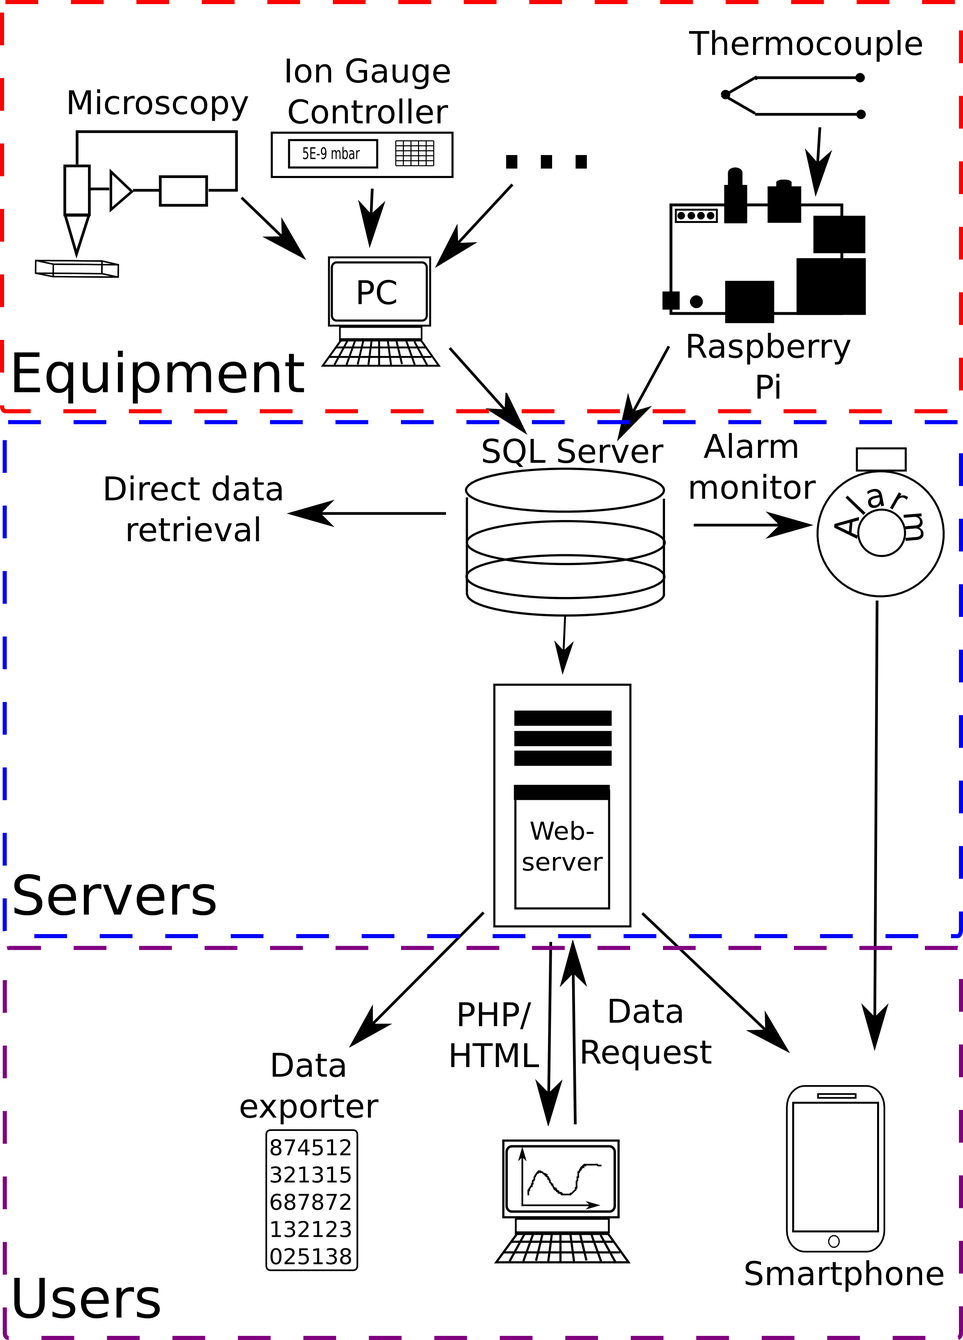
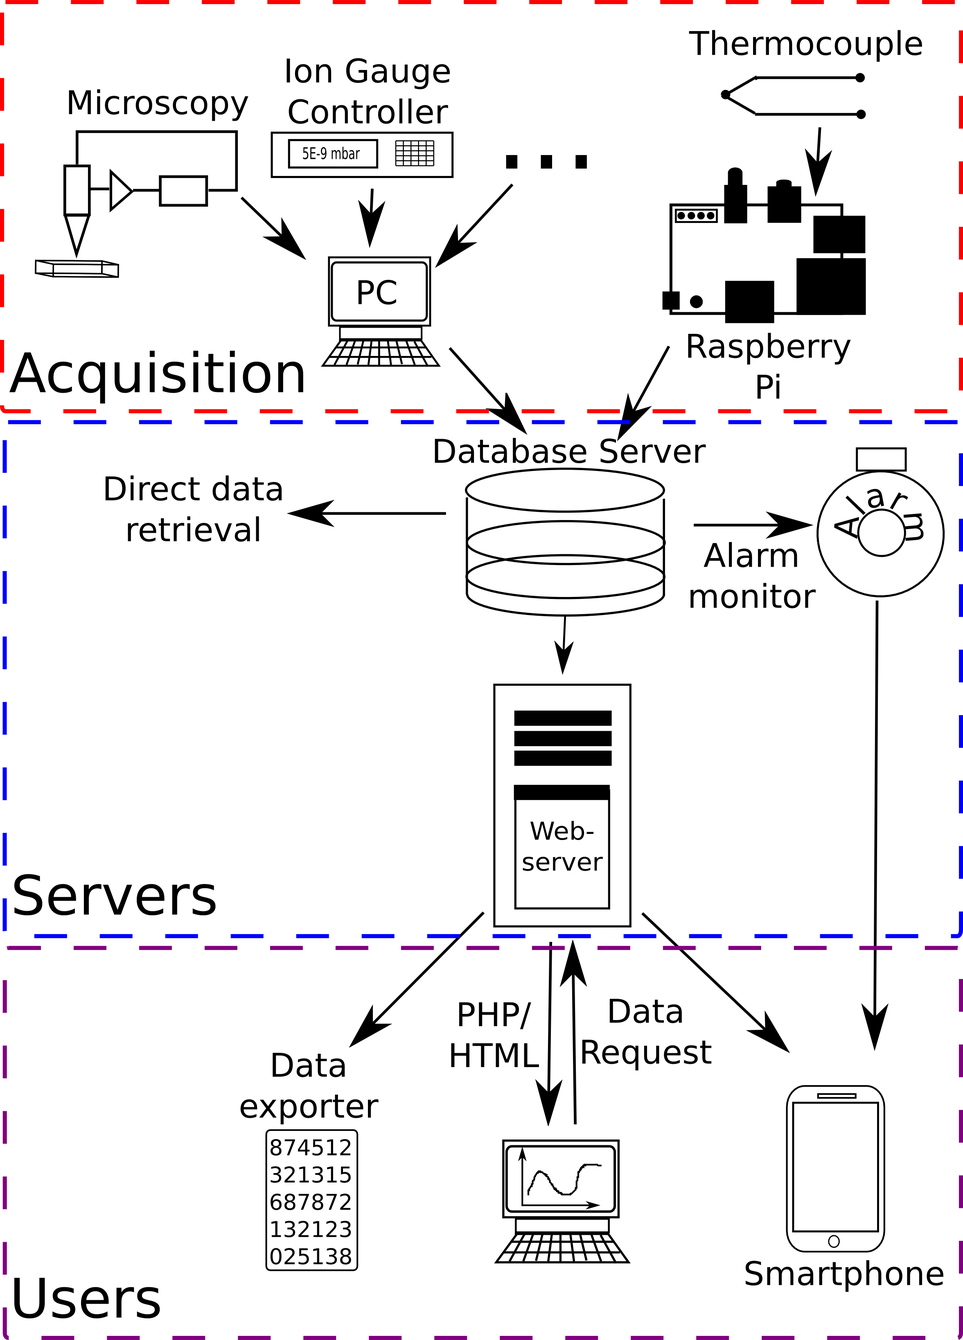
Small corrections to the manuscript before sending to Robert and Kenneth

Changed region(s): [[0.0, 0.2492, 0.3102, 0.3115], [0.4654, 0.3115, 0.8377, 0.3737], [0.7136, 0.4049, 0.8377, 0.4672]]

diff --git a/cases.tex b/cases.tex
@@ -1,16 +1,16 @@
 The existence of this data system is paramount to several automation and system
-health monitoring tasks in our lab. Below a few examples are described of the
-use of the data system for these purposes. The examples given are how to create
-a system health development graph from the continuously logged pressure data,
-how we use the continuously logged data to monitor the health and status of
-long duration experiments from home and finally how it can be used to create
+health monitoring tasks in our laboratory. Below a few examples are described
+of the use of the data system for these purposes. The examples given are how to
+create a system health development graph from the continuously logged pressure
+data, how we use the continuously logged data to monitor the health and status
+of long duration experiments from home and finally how it can be used to create
 alarms if some of the system parameters fall outside specified security ranges.
 
 \subsection{Monitoring system health}
 \label{sec:morning_pressure}
 As mentioned in section \ref{sec:data_extraction} the flexibility of SQL
-provides the possibility to do advanced data selection and very efficient
-elementary data treatment directly in the database by means of the SQL query.
+provides the possibility to perform advanced data selection and very efficient
+elementary data treatment directly in the database by means of a query.
 The can be used as in the example below, where the pressure in a vacuum
 chamber at 1\,A.M. in the morning (where all the system parameters have settled
 down) for the last month is extracted for plotting; 
@@ -25,14 +25,12 @@ where \{from\} and \{to\} should be replaced with the relevant date interval.
 The output from a statement such as the one above is illustrated in
 Figure~\ref{fig:morning_pressure}.
 \begin{figure}
- \begin{center}
- \includegraphics[width=10cm]{morning_pressure.png}
- \caption{ The morning pressure in a vacuum chamber at the department. The
-   pressure gauge is unable to read high pressures, and thus no data is
-   available from periods where the chamber is vented for maintenance.
-   \label{fig:morning_pressure}
- } 
- \end{center} 
+ \begin{center} 
+  \includegraphics[width=12cm]{morning_pressure.png} 
+
+\caption{The morning pressure in a vacuum chamber at the department as measured
+ by a Bayard-Alpert ion gauge.\label{fig:morning_pressure}} 
+\end{center}
 \end{figure} 
 Plots like these can be a useful tool to monitor the general health of the
 chamber, i.e. if leaks have developed, a valve is failing, a roughing pump is
@@ -43,47 +41,45 @@ the automated logging and selective plotting, as it would have required a
 person to log the data in the middle of the night and to manually periodically
 make new plots of the latest time period.
 
-\subsection{Status of experiments with long durations} 
-Within surface science it is not unusual to have experiments or a preparation
+\subsection{Status of experiments over long time spans} 
+Within surface science it is not unusual to have experiments or preparation
 procedures before an experiment running for extended periods of time i.e.
-overnight, or over several days. Obviously, for such procedures running when
-no-one is present to monitor it, the programs that execute the procedure are
-themselves responsible for the safety of the system/equipment and for shutting
-it down if something unintentional happens. But with continuous logging, it is
-now a simple task to add surveillance to these procedures that alerts the user
-if the procedure has been stopped. When this happens, it is then possible for
-the operator to access if it is safe to start the experiment again, even from
-home. This can help to prevent a loss of experimentation time if the experiment
-stopped e.g.\ during unsupervised experimentation time intervals like a
-weekend.
+overnight or over several days. Obviously, for such procedures the equipment is
+unmanned and no-one is present to monitor it. The software that execute the
+procedure are themselves responsible for the safety of the system/equipment and
+for shutting it down if something unintentional happens. With continuous
+logging it is now a simple task to add surveillance to these procedures that
+alerts the user if the procedure has been stopped. If this occurs, it is
+subsequently possible for the operator to assess if it is safe to start the
+experiment again, even from home. This can help prevent a loss of
+experimentation time if the experiment has been stopped e.g.\ during weekends
+or vacation time.
 
-One example where this is used is for the cleaning of metal single crystal
+An example where this is used is for the cleaning of metal single crystal
 samples before experimentation. The cleaning of the surface is achieved by
 running a number (5-20) of cleaning cycles. Each of these cycles can take up to
 several hours. Before this task was automatized, it typically required simple
 manual intervention 2-4 times during a 30 to 120 minute cycle. Obviously, this
-was a suboptimal solution, since a lot of time was spent, with only small time
-intervals to work on other things, before the next manual intervention. After
+was a suboptimal solution requiring periodical manual work. After
 the total automation of the task and the implementation of the surveillance
 features mentioned above this procedure can now run e.g.\ for 10-16 hours over
 night and produce a sample ready for experimentation at the beginning of the
 workday.
 
-Another use of the monitoring of extended procedures are in the
-experiments on microreactor setups~\cite{Henriksen2009}. For these devices,
-it is very common to have quite long experimentation times. They can be used to
-allow for sufficient system settle time when parameters have been changed, to
-study long time stability effects on the samples or to thoroughly search the
-parameter space for the experiment. Obviously, for all these purposes the more
+Another use of the monitoring of extended procedures are in the experiments on
+microreactor setups~\cite{Henriksen2009}. For these devices it is very common
+to have quite long unmanned experimentation times. They can be used to allow
+for sufficient system settle time when parameters have been changed, to study
+long time stability effects on the samples or to thoroughly search the
+parameter space for the experiment. For all of these purposes the more
 experimentation time the better and being able to un-problematically and safely
 utilize nights and weekends is a noticeable improvement.
 
 \subsection{Cooling water alarms}\label{sec:cooling_water_alarms}
-
 Several important pieces of equipment in our lab require cooling. If the
-cooling disappears it can result in the break down of this equipment, which can
-be quite expensive both in repair costs and lost equipment up-time. Using the
-continuously logged data critical system parameters can be monitored and used
+cooling disappears it can result in break down of this equipment which can
+be quite expensive in repair costs and lost experiment time. Using the
+continuously logged data, critical system parameters can be monitored and used
 to trigger alarms when these fall out of specified ranges. To use this feature
 to implement surveillance of the cooling temperature measurements on all the
 equipment with critical cooling requirements have been mounted and all of these

diff --git a/system_description.tex b/system_description.tex
@@ -1,10 +1,10 @@
 The system consists of three logically separate components as illustrated in
-Figure~\ref{fig:system_overview}; 1) the equipment component where all
-communication with equipment and acquisition of data is performed 2) the
-servers which consist of the MySQL server that stores the acquired data from
-experiments and the Apache webserver which interacts and presents the user with
-data retrieved from the database and 3) the user component which consists of
-the clients wishing to access the data. 
+Figure~\ref{fig:system_overview}; 1) the acquisition component where all
+communication with equipment and acquisition of data is performed 2) the server
+component which consists of a database server that stores the acquired data from
+experiments and the Apache webserver which interacts and presents the retrieved
+data from the database to the user with data retrieved and 3) the user side
+which consists of the clients wishing to access the data.
 
 \begin{figure}
  \begin{center}
@@ -16,40 +16,44 @@ the clients wishing to access the data.
  \end{center}
 \end{figure}
 
-The system is highly flexible meaning the servers can accept data from a range
-of different sources. In the current setup equipment interfaced with RS232,
-GPIB, USB and analog/digital data acquisition cards standards are logged to the
-MySQL database. The user can furthermore use programs written in a wide variety
-of languages. As a testimony to this, software written in both LabView and
-Python\cite{python} are used to save data to the database. How the integration
-with the server and subsequent storage of data in the database is performed is
-hence a user determined design decision. This has a number of advantages.  The
-user(s) can integrate existing software with the databases quickly and without
-the need to rewrite any previous interface software written for experimental
-setups. Furthermore, due to the flexibility of the system, if storage in the
-database during acquisition is not possible due to software limitations the
-data can still be saved in the database by subsequent post experiment parsing
-of data files. This, however, still requires that the file format, which holds
-the data, is specified or the data can be exported to a flat text format from
-the acquisition software.
+The system is highly flexible and modular meaning and the servers can accept
+data from a range of different sources and the individual components, cf.
+Figure~\ref{fig:system_overview}, can be used independently. In the current
+setup equipment interfaced with RS232, GPIB, USB and analog/digital data
+acquisition cards standards are logged to the database via the acquisition
+component. The user can furthermore use programs written in a wide variety of
+languages and is only limited by the chosen language's ability to interface to
+relational databases. As a testimony to this, software written in both LabView
+and Python\cite{python} are used to save data to the database. How the
+integration with the server and subsequent storage of data in the database is
+performed is hence a user determined design decision. This has a number of
+advantages. The user(s) can integrate existing software with the databases
+quickly and without the need to rewrite any previous interface software written
+for experimental setups. Furthermore, due to the flexibility of the system, if
+storage in the database during acquisition is not possible due to software
+limitations the data can still be saved in the database by subsequent post
+experiment parsing of data files. This, however, still requires that the file
+format, which holds the data, is specified or the data can be exported to a
+flat text format from the acquisition software.
 
-The servers consist of a MySQL server and a web server. All experimental data
-acquired by the user is stored in the MySQL database and is presented to the
-user from the web server. If needed, experimental data from the MySQL server
-can be retrieved directly for later analysis. The web server runs a LAMP
-(Linux, Apache, MySQL, PHP/Python) package. Python, PHP and HTML/CSS and is
-used to extract data from the database and present them to the end user in a
-simple interactive web interface for data visualization and simple treatment
-algorithms. Python was primarily chosen due to its tight integration with
-scientific packages, such as SciPy and NumPy, which makes data analysis and
-treatment more convenient\cite{Cahn2007}. PHP and HTML/CSS is used to display
-data in standardized formats suitable for web browsers and process input from
-the user. The combination of PHP and HTML/CSS to process user input from web
-pages is very flexible and has proven successful in other parts of the
-scientific community\cite{Crane2008}. To accommodate a range of users and
-provide the largest flexibility the web server displays both a standard HTML/CSS
-site for desktop PCs and a mobile version suitable for tablet/smartphone users.
-
+The servers consist of a database server and a web server. In our specific
+implementation a MySQL database has been chosen. All experimental data acquired
+by the user is stored in the MySQL database and is presented to the user from
+the web server. If needed, experimental data from the MySQL server can be
+retrieved directly from the database by user written software for later
+analysis. The web server runs a LAMP (Linux, Apache, MySQL, PHP/Python)
+package. Python, PHP and HTML/CSS is used to extract data from the database
+and present them to the end user in a simple interactive web interface for data
+visualization and simple treatment algorithms. Python was primarily chosen due
+to its tight integration with scientific packages, such as SciPy and NumPy,
+which makes data analysis and treatment more convenient\cite{Cahn2007}. PHP and
+HTML/CSS is used to display data in standardized formats suitable for web
+browsers and process input from the user. The combination of PHP and HTML/CSS
+to process user input from web pages is very flexible and has proven successful
+in other parts of the scientific community\cite{Crane2008}. To accommodate a
+range of users and provide the largest flexibility the web server displays both
+a standard HTML/CSS site for desktop PCs and a mobile version suitable for
+tablet/smartphone users.
 
 The web interface, which takes user input and displays data to the user, is also
 capable of routine data treatment. This can either be zoom of data, plotting on

diff --git a/data_storage.tex b/data_storage.tex
@@ -1,17 +1,17 @@
 For storage of acquired data a centralized server has been implemented as
 opposed to other non-centralized systems\cite{McIntosh2003}. Storing all
-acquired experimental data in a database on a centralized server running open
-source software has a number of attractive features. Firstly, by storing the
-data on a centralized server, backup of all experimental data is enormously
-simplified compared to backup of individual computers. Backup of experimental
-data is, hence, from a user's point of view automatic as this can be performed
-by routine jobs on the server. Secondly, the data is stored in a standardized
-and open format which allows for easy export of the data to any platform, open
-formats or software source. This makes data exchange across different platforms
-immensely more simple. Thirdly, by open sourcing all of the code used to
-visualize and treat data from the database, collaboration between several
-different groups is possible thus increasing the number of developers to
-optimize the code and further increase functionality.
+acquired experimental data in a database on a centralized server has a number
+of attractive features. Firstly, by storing the data on a centralized server,
+backup of all experimental data is enormously simplified compared to backup of
+individual computers. Backup of experimental data is, hence, from a user's
+point of view automatic as this can be performed by routine jobs on the server.
+Secondly, the data is stored in a standardized and open format which allows for
+easy export of the data to any platform, open formats or software source. This
+makes data exchange across different platforms immensely more simple. Thirdly,
+by open sourcing all of the code used to visualize and treat data from the
+database, collaboration between several different groups is possible thus
+increasing the number of developers to optimize the code and further increase
+functionality.
 
 A centralized storage of data can be accomplished in many ways. However, in
 experimental laboratories where large amounts of data are recorded a database
@@ -29,10 +29,11 @@ as possible, which helps to ensure that this central component can easily be
 managed by the professional IT-staff at the department. It is important to
 realize that while the clients can easily have the ''age diversity'' of
 accumulated scientific equipment, be exposed to harsh conditions in the lab and
-be managed by the scientific staff the server needs to be managed and handled
-with all the care associated with a production environment server.
+be managed by the scientific staff in the lab, the server needs to be managed
+and handled with all the care associated with a production environment server.
 
-To protect against pollution of the various setups tables in the database each
+To protect against pollution of the various setups tables in the database our
+system has implemented access rights to all the tables in the database. Each
 client has its own username and password which is not part of the code
 (typically it will be managed in the local ODBC-settings of the client). In
 this way, interface code can flow back and forth between different setups
@@ -40,7 +41,7 @@ without the risk of one setup accidentally logging data to other setup's
 tables.
 
 For each of the setups that is connected to this system, the following table
-structure is implemented. Each of the measurements that are continuously logged
+structure is implemented: Each of the measurements that are continuously logged
 has their own table, where the values are logged as a function of date and
 time. All the specific measurements, such as spectra, scans and values
 monitored over a well-defined time span are stored in two tables in the
@@ -55,7 +56,6 @@ hand, makes it possible and simple to store all the different kinds of xy-data
 in just two tables.
 
 \subsection{Data extraction} \label{sec:data_extraction}
-
 The flexible nature of SQL allows one to extract data in many ways. Complete
 datasets, data in a certain time interval for a continuously logged
 measurements or data pertaining a specific measurements can be retrieved by
@@ -78,4 +78,4 @@ illustrated e.g.\ in section \ref{sec:morning_pressure}.
 A further advantage of SQL servers is the standardization, which makes it easy
 to change the choice of implementation, if it is wanted for some reason.
 Several open source implementations of SQL-servers exists including Firebird,
-PostgreSQL, Oracle, Mimer SQL.
+PostgreSQL, Oracle and Mimer SQL.

diff --git a/data_acquisition.tex b/data_acquisition.tex
@@ -1,9 +1,10 @@
 In research departments consisting of several experimental setups decentralized
 data acquisition from independent clients to a central server is the most
 attractive solution. This is due to the larger flexibility of the system, lower
-probability of dataloss and to simplify the backup of all experimental data. To
-be able to save acquired data from a range of different computer hardware and
-instrumentation interfacing of many types of equipment is necessary.
+probability of dataloss and to simplify backup procedures of all experimental
+data. To be able to save acquired data from a range of different computer
+hardware and instrumentation interfacing of many types of equipment is
+necessary.
 
 In practice this is achieved by formulating a set of general design goals that
 will serve as computer language and hardware independent pseudo-code which will
@@ -23,15 +24,16 @@ the system. The design goals of our implementation are:
   again be accessed. The client must continuously check if the server is
   available again and as soon as possible deliver queued data to the server.
 
-* For continuous measurements (e.g. temperature of pumps, pressure in vacuum
-  chambers, etc.) data logging must be implemented in a way that ensures that
-  all significant events are recorded and at the same time does not use
-  excessive amounts of storage. This is typically implemented by sampling data
-  with a much higher rate than they are recorded. The local client will then,
-  based on relevant heuristics, decide whether a new data point should stored
-  on the server. This is implemented by waiting for either a given relative
-  change in the signal or a predefined time since last recording of a data
-  point. An example of such an implementation is shown below.
+* For continuous measurements (e.g. temperatures, pressure in vacuum chambers,
+  cooling water flow, etc.) data logging must be implemented in a way that
+  ensures that all significant events are recorded and at the same time does
+  not use excessive amounts of storage. This is typically implemented by
+  sampling data with a much higher rate than they are recorded. The local
+  client will then, based on relevant heuristics, decide whether a new data
+  point should stored on the server. In practise this is often implemented by
+  waiting for either a given relative change in the signal or a predefined time
+  since last recording of a data point. An example of such an implementation is
+  shown below.
 
 \begin{verbatim}
 max_time_between_points = 600; deviation = 0.1

diff --git a/data_access.tex b/data_access.tex
@@ -2,7 +2,7 @@ As mentioned in section~\ref{sec:data_extraction} it is both possible and very
 easy to access data directly from the database using either direct SQL
 statements or programming. This is very practical for the cases where it is
 desired to perform data treatment on the data or to produce high quality
-graphs. However, most of the time it is sufficient to simply look at the data
+graphs. However, typically it is sufficient to simply look at the data
 and possibly perform light data treatment. For this kind of data analysis it
 would be highly impractical to write small custom pieces of software for each
 kind of data that the users wish to look at. For this reason we have developed
@@ -10,7 +10,7 @@ a framework for visualization of the stored data that allows quick and easy
 access to all data. The framework includes support for basic data treatment as
 well as the option to plot several data sets at the same time for easy
 comparison of results and to export the data to local files. An example of the
-web interface used for plotting is shown in Figure~\ref{fig:webinterface}
+web interface used for plotting is shown in Figure~\ref{fig:webinterface}.
 \begin{figure}
  \begin{center}
  \includegraphics[width=10cm]{mass_spectra_comparison.png}
@@ -50,10 +50,10 @@ Below is shown an example of a continuously logged pressure:
 
 The system is flexible towards choice of plotting library which is a great
 advantage since different plotting libraries are optimal for different tasks.
-At the moment all plotting is performed by matplotlib\cite{matplotlib}.  As a
-testimony to the flexibility of the setup we have moved from our original
-backend based on JpGraph\cite{jpgraph} to a backend based on matplotlib without
-significant changes to the backend code. Currently, we are investigating moving
-some of the display code to the JavaScript based dygraphs\cite{dygraphs} thus
-producing a dual display system since this plotting library allows for real-time 
-manipulation of the data using a mouse through an ordinary web browser.
+At the moment the default plots are produced by JavaScript based
+dygraphs\cite{dygraphs} allowing real-time manipulation of the data using a
+mouse through an ordinary web browser. As a testimony to the flexibility of the
+setup matplotlib\cite{matplotlib} is also implemented and can also be used for
+visualizing data if the user(s) wishes. JpGraph\cite{jpgraph} has previously
+been implemented as plotting library without significant changes to the backend
+code demonstrating the large flexibility of system.

diff --git a/introduction.tex b/introduction.tex
@@ -1,15 +1,15 @@
 In every experimental laboratory the need for acquisition and subsequent
-logging of data is essential. The acquired data from a given
-experiment is typically stored locally on a laboratory computer and is often
-acquired in highly specialized proprietary software tightly integrated with the
+logging of data is essential. The acquired data from a given experiment is
+typically stored locally on a laboratory computer and is often acquired in
+highly specialized proprietary software tightly integrated with the
 experimental equipment by the manufacturer. These software suites often saves
 to closed proprietary formats which are difficult to exchange across several
 computers (e.g. a laboratory computer and a office computer) as specialized
 software both to read and export the data files is required. The software
 furthermore typically also requires additional licenses increasing complexity
-and cost. The exchange of acquired data between different computers with
-different operating systems, setup etc. is hence cumbersome and difficult due
-to the nature of closed proprietary formats.
+and cost of the total system. The exchange of acquired data between different
+computers with different operating systems, setup etc. is hence cumbersome and
+difficult due to the nature of proprietary formats.
 
 To avoid difficult data exchange and simplify data processing an open source
 software platform is a much more attractive
@@ -17,7 +17,7 @@ solution\cite{Benn2009,Murray2011,So2007}. To accommodate these demands we have
 written an open source platform for saving, logging, treating and visualizing
 experimental data.
 
-In the present work we describe a totally open source system consisting of data
+In the present work we describe a software system consisting of data
 acquisition, storage in a centralized database and a comprehensive display
-module including simple data treatment algorithms licensed as open source
-software.
+module including simple data treatment algorithms licensed under the GNU
+general public.

diff --git a/summary.tex b/summary.tex
@@ -1,1 +1,1 @@
-Here I should write the summary...
+In the present paper we have described a system for acquiring, logging and visualizing experimental data. Code written in Python, PHP and HTML 
